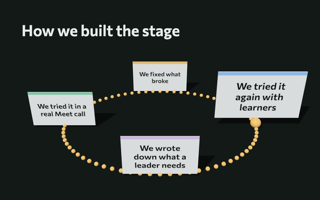
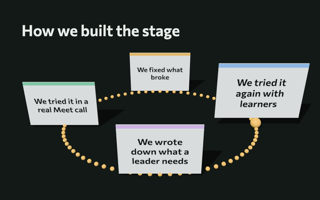
Kinetic slides from a second real call: rooms start a building slide at its first point and say Next point; path, loop, dominoes, and timeline read at Meet's size
Ben, November 26, 2026: "Please do everything you documented except for
trying to test in safari."

Real call dki-iord-ens (a leader and a learner): a learner who joined in the
middle of a kinetic slide opened at the same step with the earlier pieces in
place; a kinetic slide worked in an open room, made in the room's editor on the
stage, stepped forward and back, followed by the learner, and made plain again.
On the session page, a picture chosen as a file went to storage and drew in 3D
in Play.

Found and fixed:
- An open room started a slide that builds (point by point or kinetic) whole,
  and its button always said Next slide. Starting fresh now lands on the first
  point, and within a slide the button says Next point, as the cohort panel does.
- A room's title showed a slide's icon marker (":lightbulb:").
- The path's first sign ran off the stage; signs now stand at staggered heights.
  The loop's cards hold four lines, the dominoes are wider, and the timeline
  centers the point being said.
- look.mjs's step-down check now matches what the frames were, rather than
  assuming the machine is slow.

Claude-Session: https://claude.ai/code/session_01FPuSAnNq2sUAXmYZ4YGZJH

diff --git a/assets/kinetic-kit.js b/assets/kinetic-kit.js
@@ -326,8 +326,8 @@
   // hops along them, and each stop's sign rises as it is reached.
   KINDS.path = function (T, points) {
     var w = world(T), n = points.length, items = [];
-    var curve = new T.CatmullRomCurve3([new T.Vector3(-6.4, 0, 3.2), new T.Vector3(-3, 0, 0.6), new T.Vector3(0, 0, 2.2), new T.Vector3(3.2, 0, -0.4), new T.Vector3(6.2, 0, 1.4)]);
-    var stops = points.map(function (p, i) { return n === 1 ? 0.5 : 0.04 + 0.92 * i / (n - 1); });
+    var curve = new T.CatmullRomCurve3([new T.Vector3(-5.3, 0, 3.0), new T.Vector3(-2.6, 0, 0.6), new T.Vector3(0, 0, 2.2), new T.Vector3(2.7, 0, -0.4), new T.Vector3(5.2, 0, 1.4)]);
+    var stops = points.map(function (p, i) { return n === 1 ? 0.5 : 0.12 + 0.76 * i / (n - 1); });
     var stones = [], count = 34, stoneMat = new T.MeshStandardMaterial({ color: '#3d4842', roughness: 0.95 });
     for (var k = 0; k < count; k++) {
       var t = k / (count - 1), at = curve.getPoint(t);
@@ -337,10 +337,12 @@
     }
     var signs = points.map(function (point, i) {
       var at = curve.getPoint(stops[i]), g = new T.Group();
-      var post = new T.Mesh(new T.CylinderGeometry(0.05, 0.05, 1.4, 10), new T.MeshStandardMaterial({ color: '#8a958f' }));
-      post.position.y = 0.7; post.castShadow = true; g.add(post);
-      var c = card(T, point, i, { w: 3.5, h: 1.95, d: 0.06, size: 74, most: 3 });
-      c.position.y = 1.4 + 0.97; g.add(c);
+      // Neighboring signs stand at two heights, so none covers another's words.
+      var rows = n > 5 ? 3 : 2, tall = 1.3 + (i % rows) * (rows === 3 ? 1.45 : 2.05), sw = n > 5 ? 2.4 : n > 4 ? 2.9 : 3.3;
+      var post = new T.Mesh(new T.CylinderGeometry(0.05, 0.05, tall, 10), new T.MeshStandardMaterial({ color: '#8a958f' }));
+      post.position.y = tall / 2; post.castShadow = true; g.add(post);
+      var c = card(T, point, i, { w: sw, h: sw * 0.56, d: 0.06, size: 74, most: 3 });
+      c.position.y = tall + sw * 0.28; g.add(c);
       g.position.set(at.x, 0, at.z - 0.35); w.scene.add(g);
       var it = piece(function (p) { var e = easeOut(clamp(p * 1.4 - 0.25)); g.visible = p > 0; g.scale.set(1, Math.max(0.001, e), 1); c.material[4].color.setScalar(i < beat - 1 ? 0.78 : 1); });
       items.push(it);
@@ -350,8 +352,8 @@
     var walker = new T.Mesh(new T.SphereGeometry(0.28, 28, 20), new T.MeshStandardMaterial({ color: ACCENTS[0], roughness: 0.4 }));
     walker.castShadow = true; w.scene.add(walker);
     var trav = { t: 0, from: 0, to: 0, p: 1 };
-    w.camera.position.set(0, 8.4, 16.8);
-    w.camera.lookAt(0, 1.3, 0.6);
+    w.camera.position.set(0, 8.2, 17.4);
+    w.camera.lookAt(0, 2.3, 0.6);
     return kind(w, items, function (b, now) {
       beat = b; upto(signs, b);
       var goal = stops[Math.max(0, b - 1)];
@@ -381,9 +383,9 @@
     }
     var cw = Math.min(3.4, 16 / n);
     var stations = points.map(function (point, i) {
-      var p = pos(ang(i)), g = new T.Group(), c = card(T, point, i, { w: cw, h: cw * 0.6, size: 80, most: 3 });
-      c.position.y = cw * 0.3 + 0.15; g.add(c); g.position.set(p.x, 0, p.z); w.scene.add(g);
-      var it = piece(function (q) { var e = easeOut(q); g.position.y = e * 0.35; var s = 0.82 + e * 0.28; g.scale.set(s, s, s); c.material[4].color.setScalar(lerp(0.62, 1, Math.min(1, q * 2 + (it.seen ? 1 : 0)))); });
+      var p = pos(ang(i)), g = new T.Group(), c = card(T, point, i, { w: cw, h: cw * 0.7, size: 80, most: 4 });
+      c.position.y = cw * 0.35 + 0.15; g.add(c); g.position.set(p.x, 0, p.z); w.scene.add(g);
+      var it = piece(function (q) { var e = easeOut(q); g.position.y = e * 0.35; var s = 0.9 + e * 0.2; g.scale.set(s, s, s); c.material[4].color.setScalar(lerp(0.62, 1, Math.min(1, q * 2 + (it.seen ? 1 : 0)))); });
       it.seen = false;
       items.push(it);
       return it;
@@ -413,10 +415,10 @@
   // Dominoes fall: the points stand in a line going away, and each step tips
   // the front one over, face up, to show the one behind it.
   KINDS.dominoes = function (T, points) {
-    var w = world(T), n = points.length, items = [], dh = 3.0, dw = 2.3, dd = 0.34, gap = 3.25;
+    var w = world(T), n = points.length, items = [], dh = 3.0, dw = 2.9, dd = 0.34, gap = 3.25;
     var doms = points.map(function (point, i) {
       var side = new T.MeshStandardMaterial({ color: '#2b3430', roughness: 0.6 });
-      var front = new T.MeshStandardMaterial({ map: face(T, point.words, { w: Math.round(dw * 200), h: Math.round(dh * 200), bg: INK, fg: DARK, stripe: accent(i), size: 80, most: 5, pad: 0.1 }, point.img), roughness: 0.6 });
+      var front = new T.MeshStandardMaterial({ map: face(T, point.words, { w: Math.round(dw * 200), h: Math.round(dh * 200), bg: INK, fg: DARK, stripe: accent(i), size: 88, most: 4, pad: 0.09 }, point.img), roughness: 0.6 });
       var m = new T.Mesh(new T.BoxGeometry(dw, dh, dd), [side, side, side, side, front, side]);
       m.castShadow = true; m.receiveShadow = true;
       m.position.set(0, dh / 2, dd / 2);
@@ -434,7 +436,7 @@
     return kind(w, items, function (b, now) {
       doms.forEach(function (d, i) { d.it.to = i < b - 1 ? 1 : 0; });
       var c = doms[Math.max(0, b - 1)];
-      cam.to([c.x + 3.8, 6.6, c.z + 12.2], [c.x, 1.7, c.z - 0.6], now);
+      cam.to([c.x + 3.3, 6.0, c.z + 10.6], [c.x, 1.7, c.z - 0.5], now);
     }, function (dt, t, still) { return cam.step(dt, still); });
   };
 
@@ -585,7 +587,7 @@
     var cam = rig(T, w.camera, [0, 3.4, 11], [0, 1.5, 0]);
     return kind(w, items, function (b, now) {
       beat = b; upto(items, b);
-      var x = n <= 3 ? 0 : xs[Math.max(0, b - 1)] - Math.sign(xs[Math.max(0, b - 1)]) * Math.min(Math.abs(xs[Math.max(0, b - 1)]), gap * 0.5);
+      var x = n <= 3 ? 0 : xs[Math.max(0, b - 1)];
       cam.to([x + 1.0, 3.4, n <= 3 ? 15 : 13], [x, 1.35, 0], now);
     }, function (dt, t, still) { return cam.step(dt, still); });
   };

diff --git a/addon/index.html b/addon/index.html
@@ -235,7 +235,7 @@
   <script src="/assets/signals.js?v=20261118r" defer></script>
   <script src="/assets/vendor/deck-kit.js?v=20261112v" defer></script>
   <script src="/assets/slides-lib.js?v=20261126d" defer></script>
-  <script src="/assets/kinetic-kit.js?v=20261126d" defer></script>
+  <script src="/assets/kinetic-kit.js?v=20261126g" defer></script>
   <script src="/assets/slide-editor.js?v=20261126b" defer></script>
   <script src="/assets/show-lib.js?v=20261118a" defer></script>
   <script src="/assets/show-view-lib.js?v=20261112b" defer></script>
@@ -257,10 +257,10 @@
   <script src="/assets/breakouts-lib.js?v=20261112b" defer></script>
   <script src="/assets/breakouts.js?v=20261118w" defer></script>
   <script src="/assets/github-block.js?v=20261107a" defer></script>
-  <script src="/assets/room-lib.js?v=20261124a" defer></script>
+  <script src="/assets/room-lib.js?v=20261126g" defer></script>
   <script src="/assets/room-client.js?v=20261124a" defer></script>
   <script src="/assets/cohort-room.js?v=20261112b" defer></script>
-  <script src="/assets/open-room.js?v=20261126b" defer></script>
+  <script src="/assets/open-room.js?v=20261126f" defer></script>
   <script src="/assets/workbook-lib.js?v=20261111c" defer></script>
   <script src="/assets/workbook-view.js?v=20261111b" defer></script>
   <script src="/assets/replay-lib.js?v=20261112b" defer></script>

diff --git a/assets/room-lib.js b/assets/room-lib.js
@@ -83,7 +83,7 @@
   // The first heading of a talk, for its title.
   function titleOf(text) {
     var m = /^#{1,3}\s+(.+?)\s*(\{.*\})?\s*$/m.exec(String(text || ''));
-    return m ? m[1].slice(0, 120) : '';
+    return m ? m[1].replace(/^:[a-z0-9-]+:\s*/, '').slice(0, 120) : '';
   }
 
   // A stop in the talk: { slide, shown }, with shown 0 for the whole slide, the
@@ -109,7 +109,9 @@
     if (!list.length) return { label: 'Write your slides', act: 'talk' };
     var i = stopAt(list, room.at, room.shown);
     if (i >= list.length - 1) return { label: 'Last slide', act: null, disabled: true };
-    return { label: 'Next slide', act: 'next', to: list[i + 1] };
+    // Within a slide that builds (point by point, or kinetic), the next press
+    // brings the next point, as the cohort panel says.
+    return { label: list[i + 1].slide === list[i].slide ? 'Next point' : 'Next slide', act: 'next', to: list[i + 1] };
   }
 
   function people(room) { return (room && room.people) || []; }

diff --git a/addon/stage/index.html b/addon/stage/index.html
@@ -215,11 +215,11 @@
   <script src="/assets/code-lib.js" defer></script>
   <script src="/assets/ui.js?v=20261112b" defer></script>
   <script src="/assets/slides-lib.js?v=20261126d" defer></script>
-  <script src="/assets/kinetic-kit.js?v=20261126d" defer></script>
+  <script src="/assets/kinetic-kit.js?v=20261126g" defer></script>
   <script src="/assets/slide-editor.js?v=20261126b" defer></script>
   <script src="/assets/slide-model.js?v=20261126b" defer></script>
   <script src="/assets/slide-studio.js?v=20261126d" defer></script>
-  <script src="/assets/room-lib.js?v=20261124a" defer></script>
+  <script src="/assets/room-lib.js?v=20261126g" defer></script>
   <script src="/assets/room-client.js?v=20261124a" defer></script>
   <script src="/assets/coach-lib.js?v=20261112zf" defer></script>
   <script src="/assets/coach.js?v=20261112x" defer></script>

diff --git a/assets/open-room.js b/assets/open-room.js
@@ -116,7 +116,13 @@
       if (step.act === 'stage') return openStage();
       if (step.act === 'close') return send({ t: 'close' });
       if (step.act === 'talk') return F.show('slides');
-      if (step.act === 'slides') return send({ t: 'show', show: 'slides' });
+      if (step.act === 'slides') {
+        // Starting fresh lands on the first stop, so a slide that builds starts
+        // with its first point rather than whole (found with a kinetic slide).
+        var first = stops()[0], fresh = !(room.at > 0 || room.shown);
+        if (fresh && first && first.shown) return send({ t: 'go', at: first.slide, shown: first.shown });
+        return send({ t: 'show', show: 'slides' });
+      }
       if (step.act === 'next') send({ t: 'go', at: step.to.slide, shown: step.to.shown });
     }
     function back() {

diff --git a/session/index.html b/session/index.html
@@ -193,7 +193,7 @@
   <script src="/assets/question-view.js?v=20261106a" defer></script>
   <script src="/assets/board-lib.js" defer></script>
   <script src="/assets/slides-lib.js?v=20261126d" defer></script>
-  <script src="/assets/kinetic-kit.js?v=20261126d" defer></script>
+  <script src="/assets/kinetic-kit.js?v=20261126g" defer></script>
   <script src="/assets/slide-editor.js?v=20261126b" defer></script>
   <script src="/assets/slide-model.js?v=20261126b" defer></script>
   <script src="/assets/github-block.js?v=20261107a" defer></script>

diff --git a/cohort/index.html b/cohort/index.html
@@ -356,7 +356,7 @@
   <script src="/assets/path-lib.js" defer></script>
   <script src="/assets/showcase-lib.js?v=20261022a" defer></script>
   <script src="/assets/slides-lib.js?v=20261126d" defer></script>
-  <script src="/assets/kinetic-kit.js?v=20261126d" defer></script>
+  <script src="/assets/kinetic-kit.js?v=20261126g" defer></script>
   <script src="/assets/slide-editor.js?v=20261126b" defer></script>
   <script src="/assets/show-lib.js?v=20261118a" defer></script>
   <script src="/assets/recognition-lib.js" defer></script>
